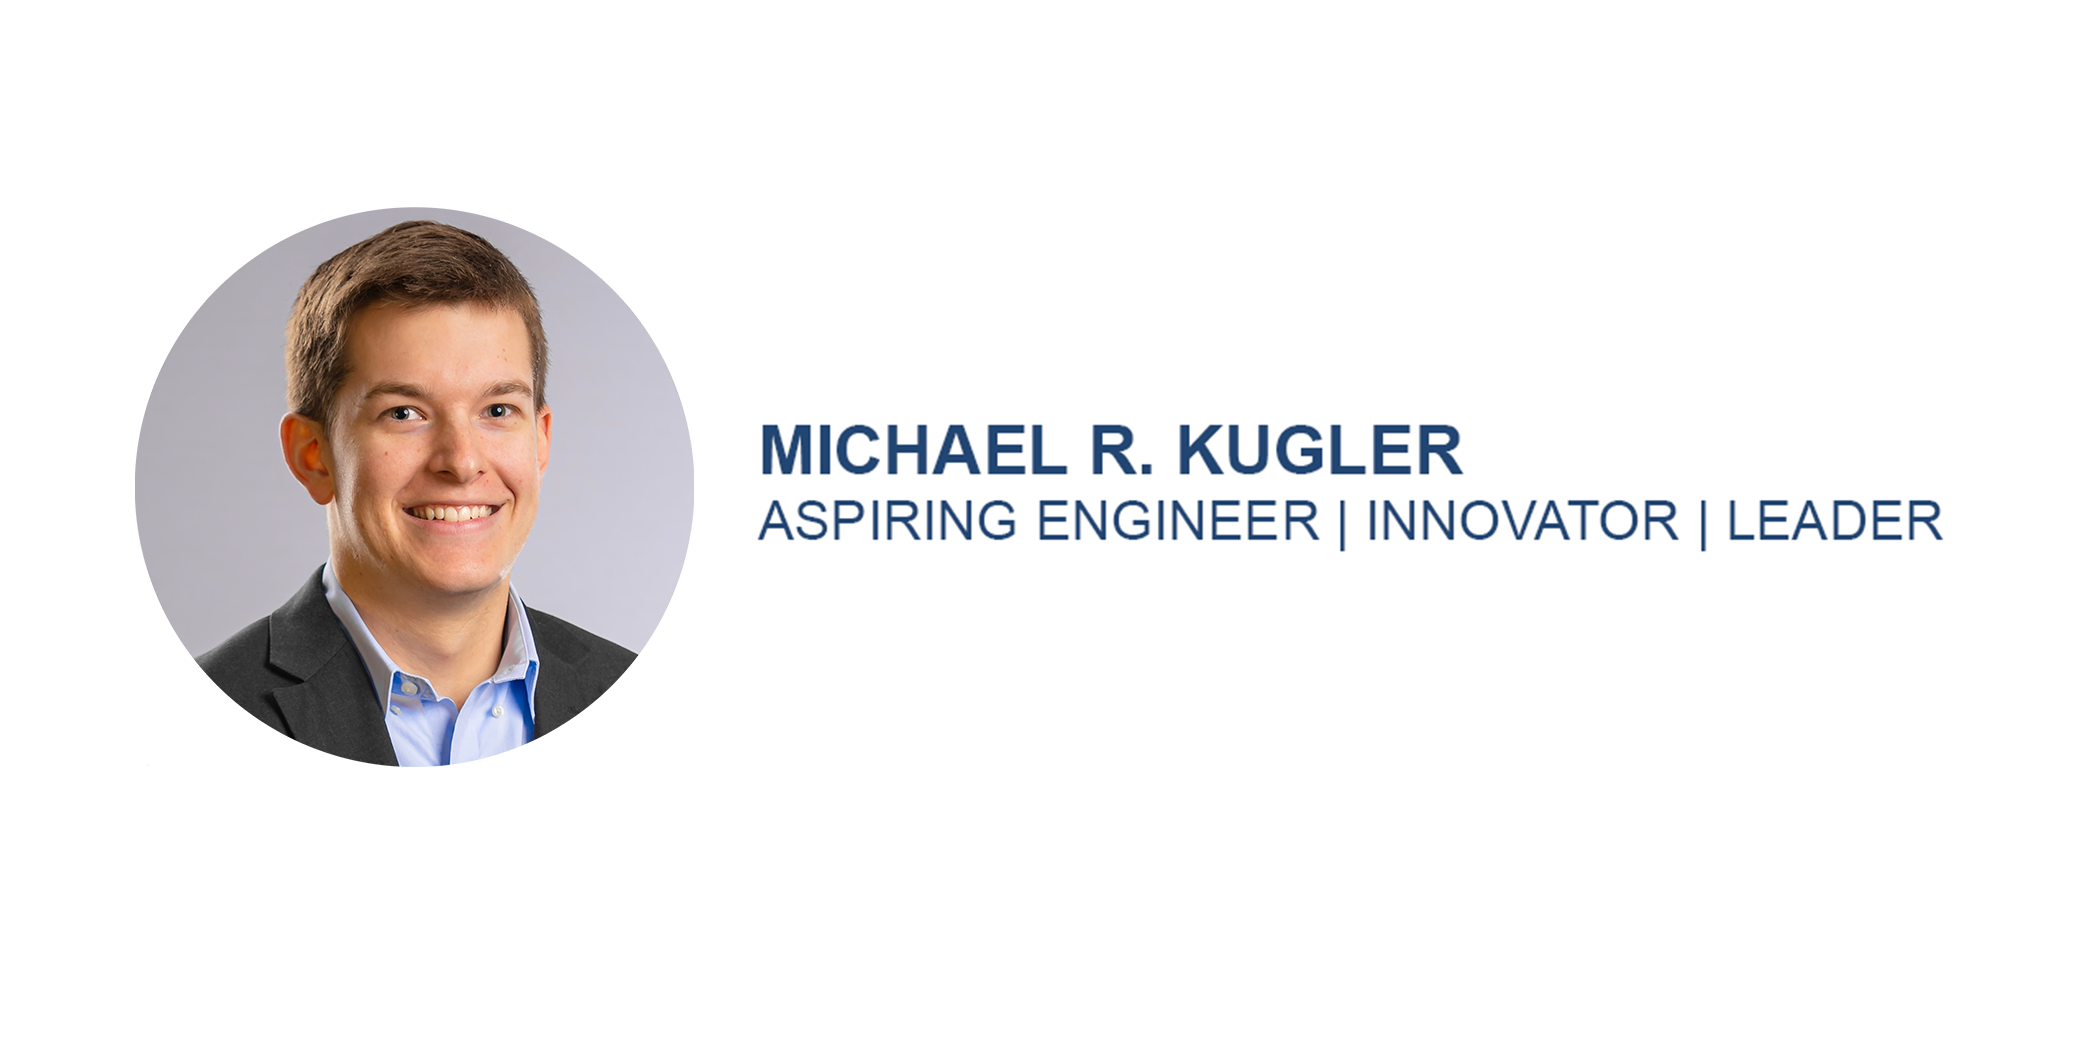
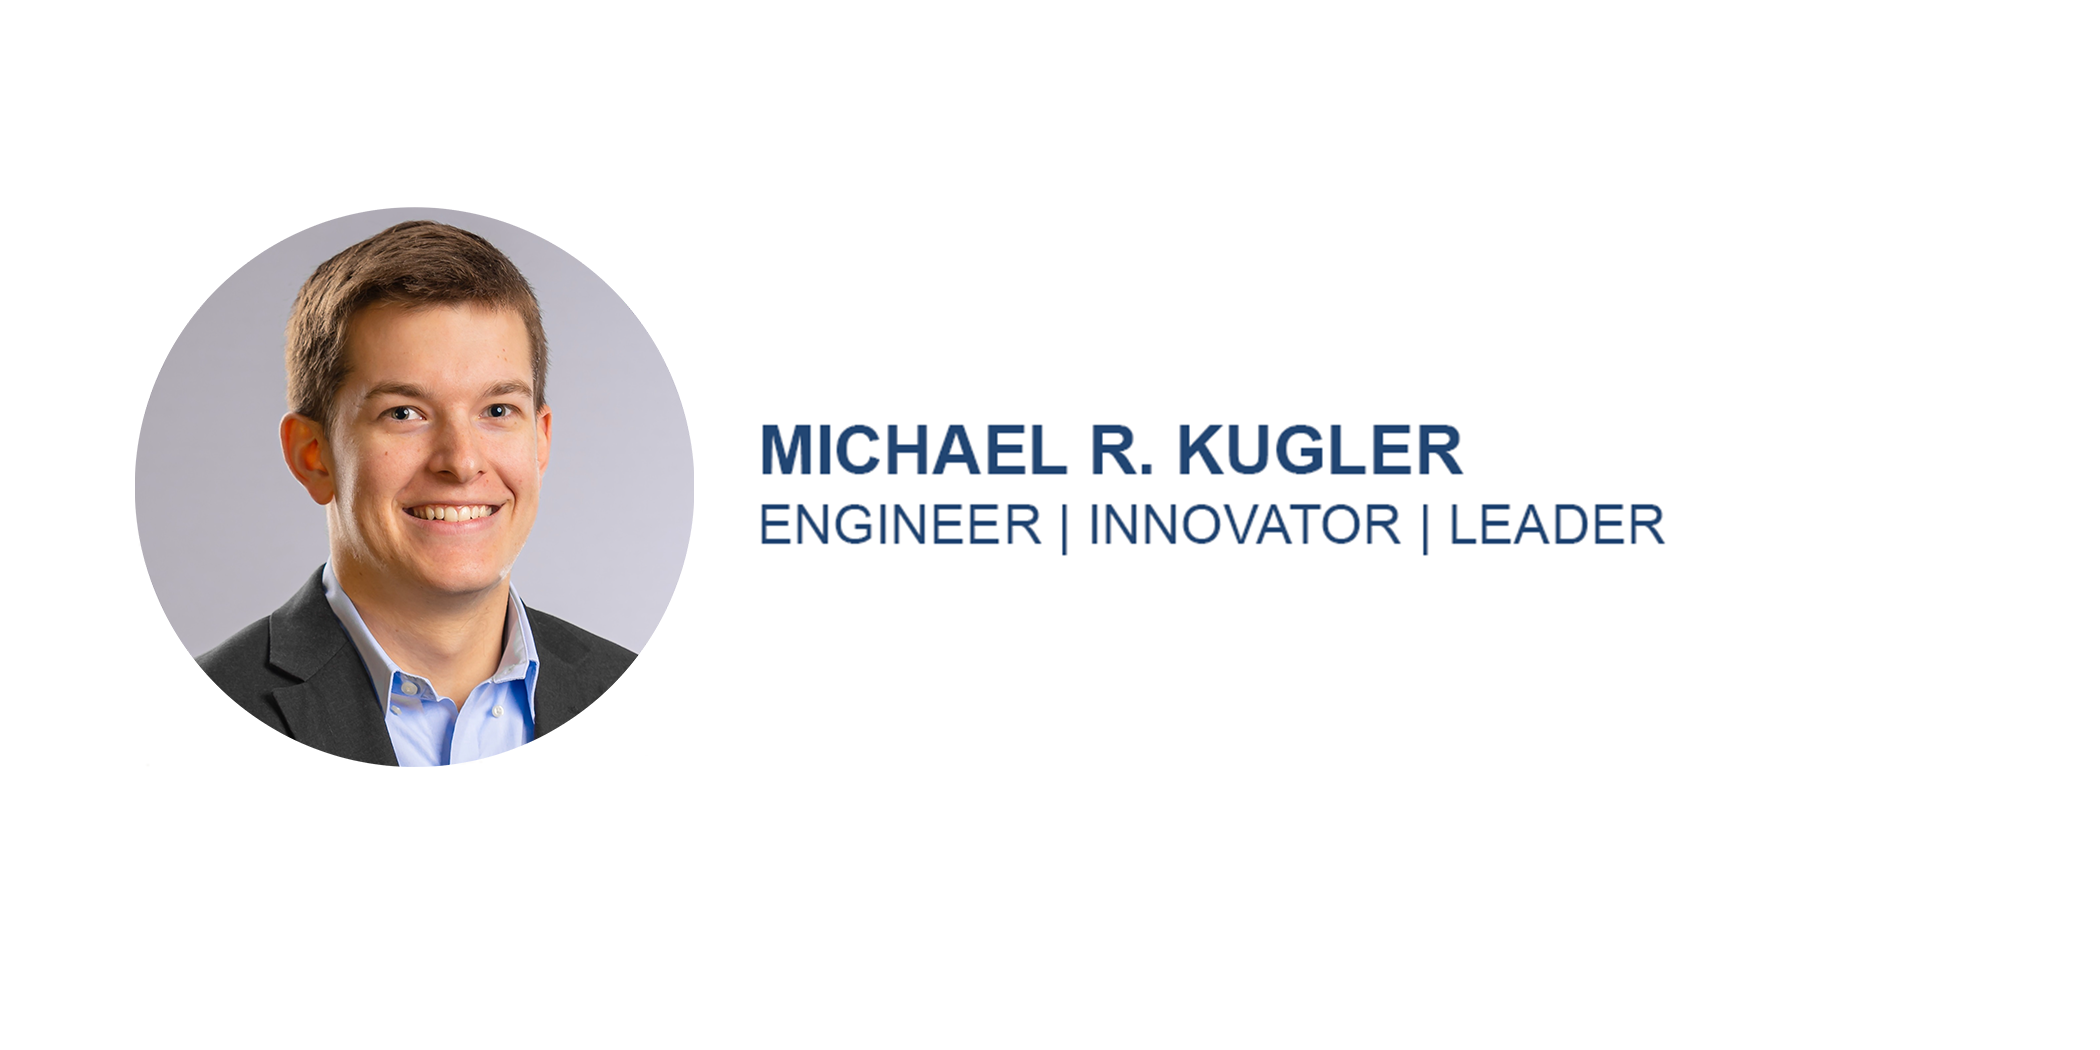
Updated intro

Changed region(s): [[0.3405, 0.4571, 0.9286, 0.5181]]

diff --git a/index.html b/index.html
@@ -87,7 +87,7 @@ https://templatemo.com/tm-531-reflux
             <h2>About Me</h2>
             <div class="line-dec"></div>
             <span
-              >I am a technical minded entrepreneur, aimed at using my unique skills and abilities in the field of engineering for the betterment of society. Currently an undergraduate mechanical engineering major at the University of Pittsburgh, I am a deep worker and have led numerous projects tackling ambitious, real-world problems. With my past experience and strong ambition to learn, I believe I can make a positive impact in any work situation. </span
+              >I am a technical minded engineer, aimed at using my unique skills and abilities in the field of engineering for the betterment of society. A graduate of the University of Pittsburgh, I am a deep worker and have led numerous projects tackling ambitious, real-world problems. With my past experience and strong ambition to learn, I believe I can make a positive impact in any work situation. </span
             >
           </div>
           <div class="left-image-post">
